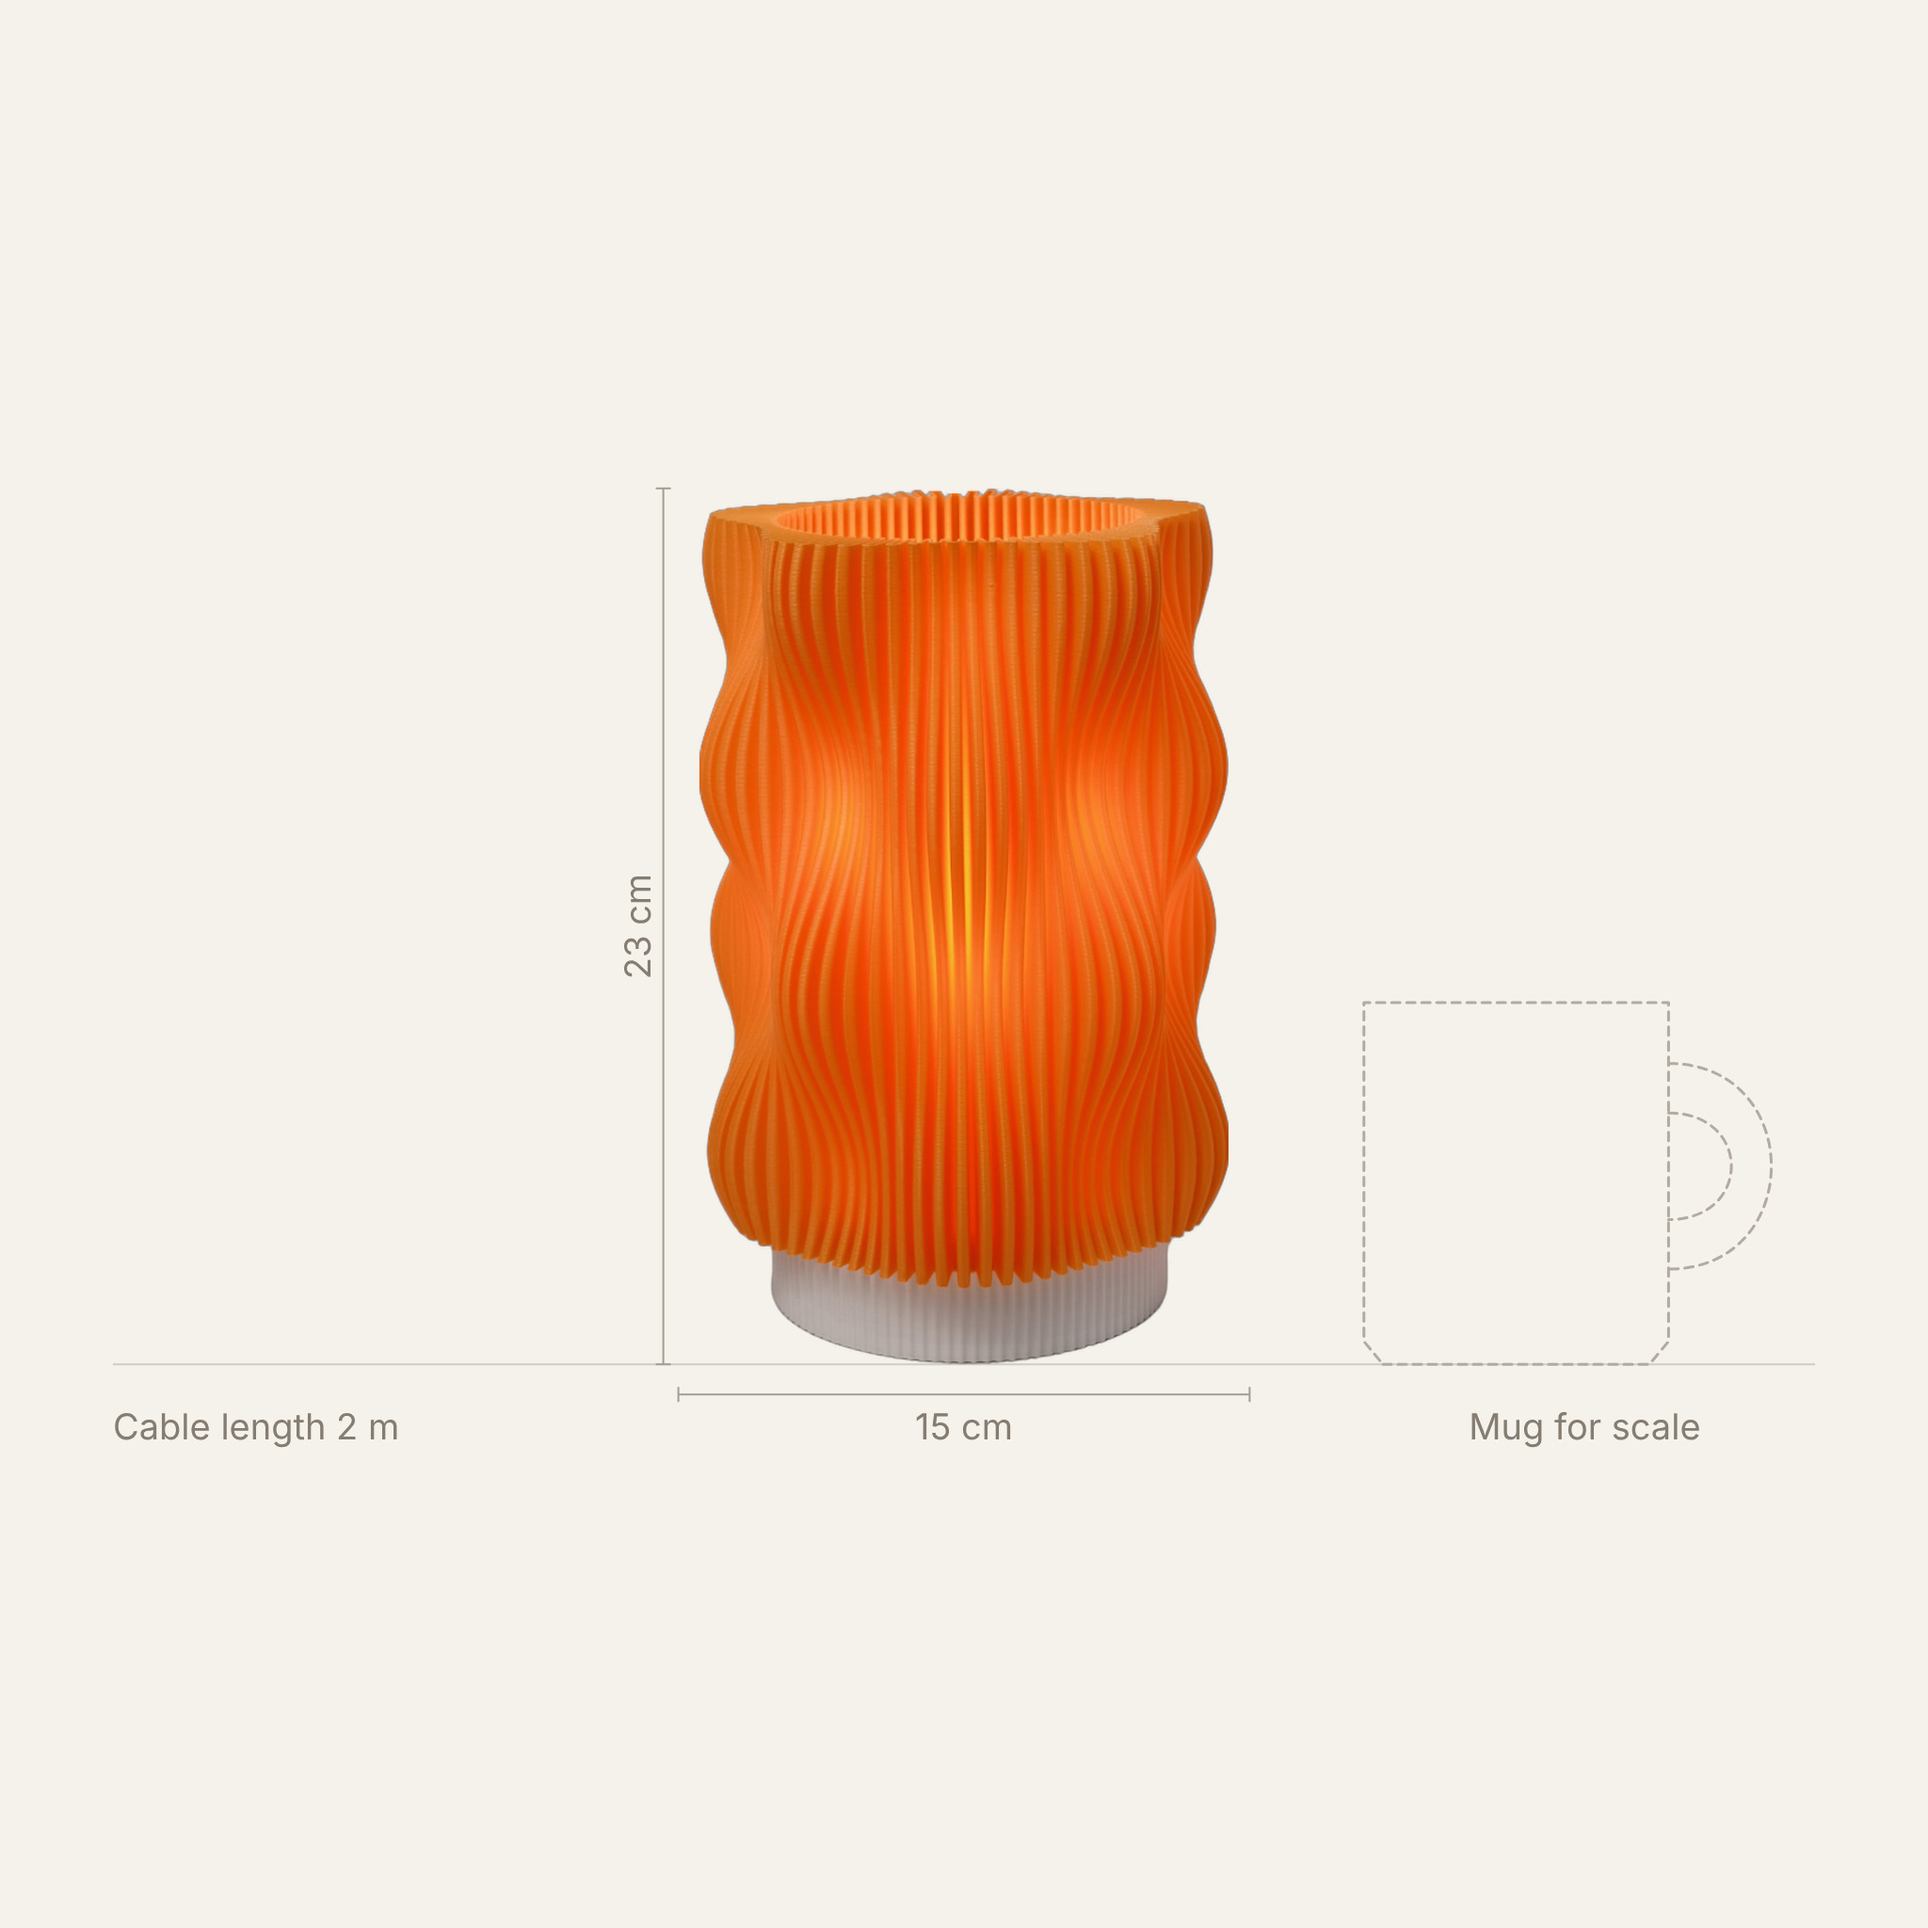
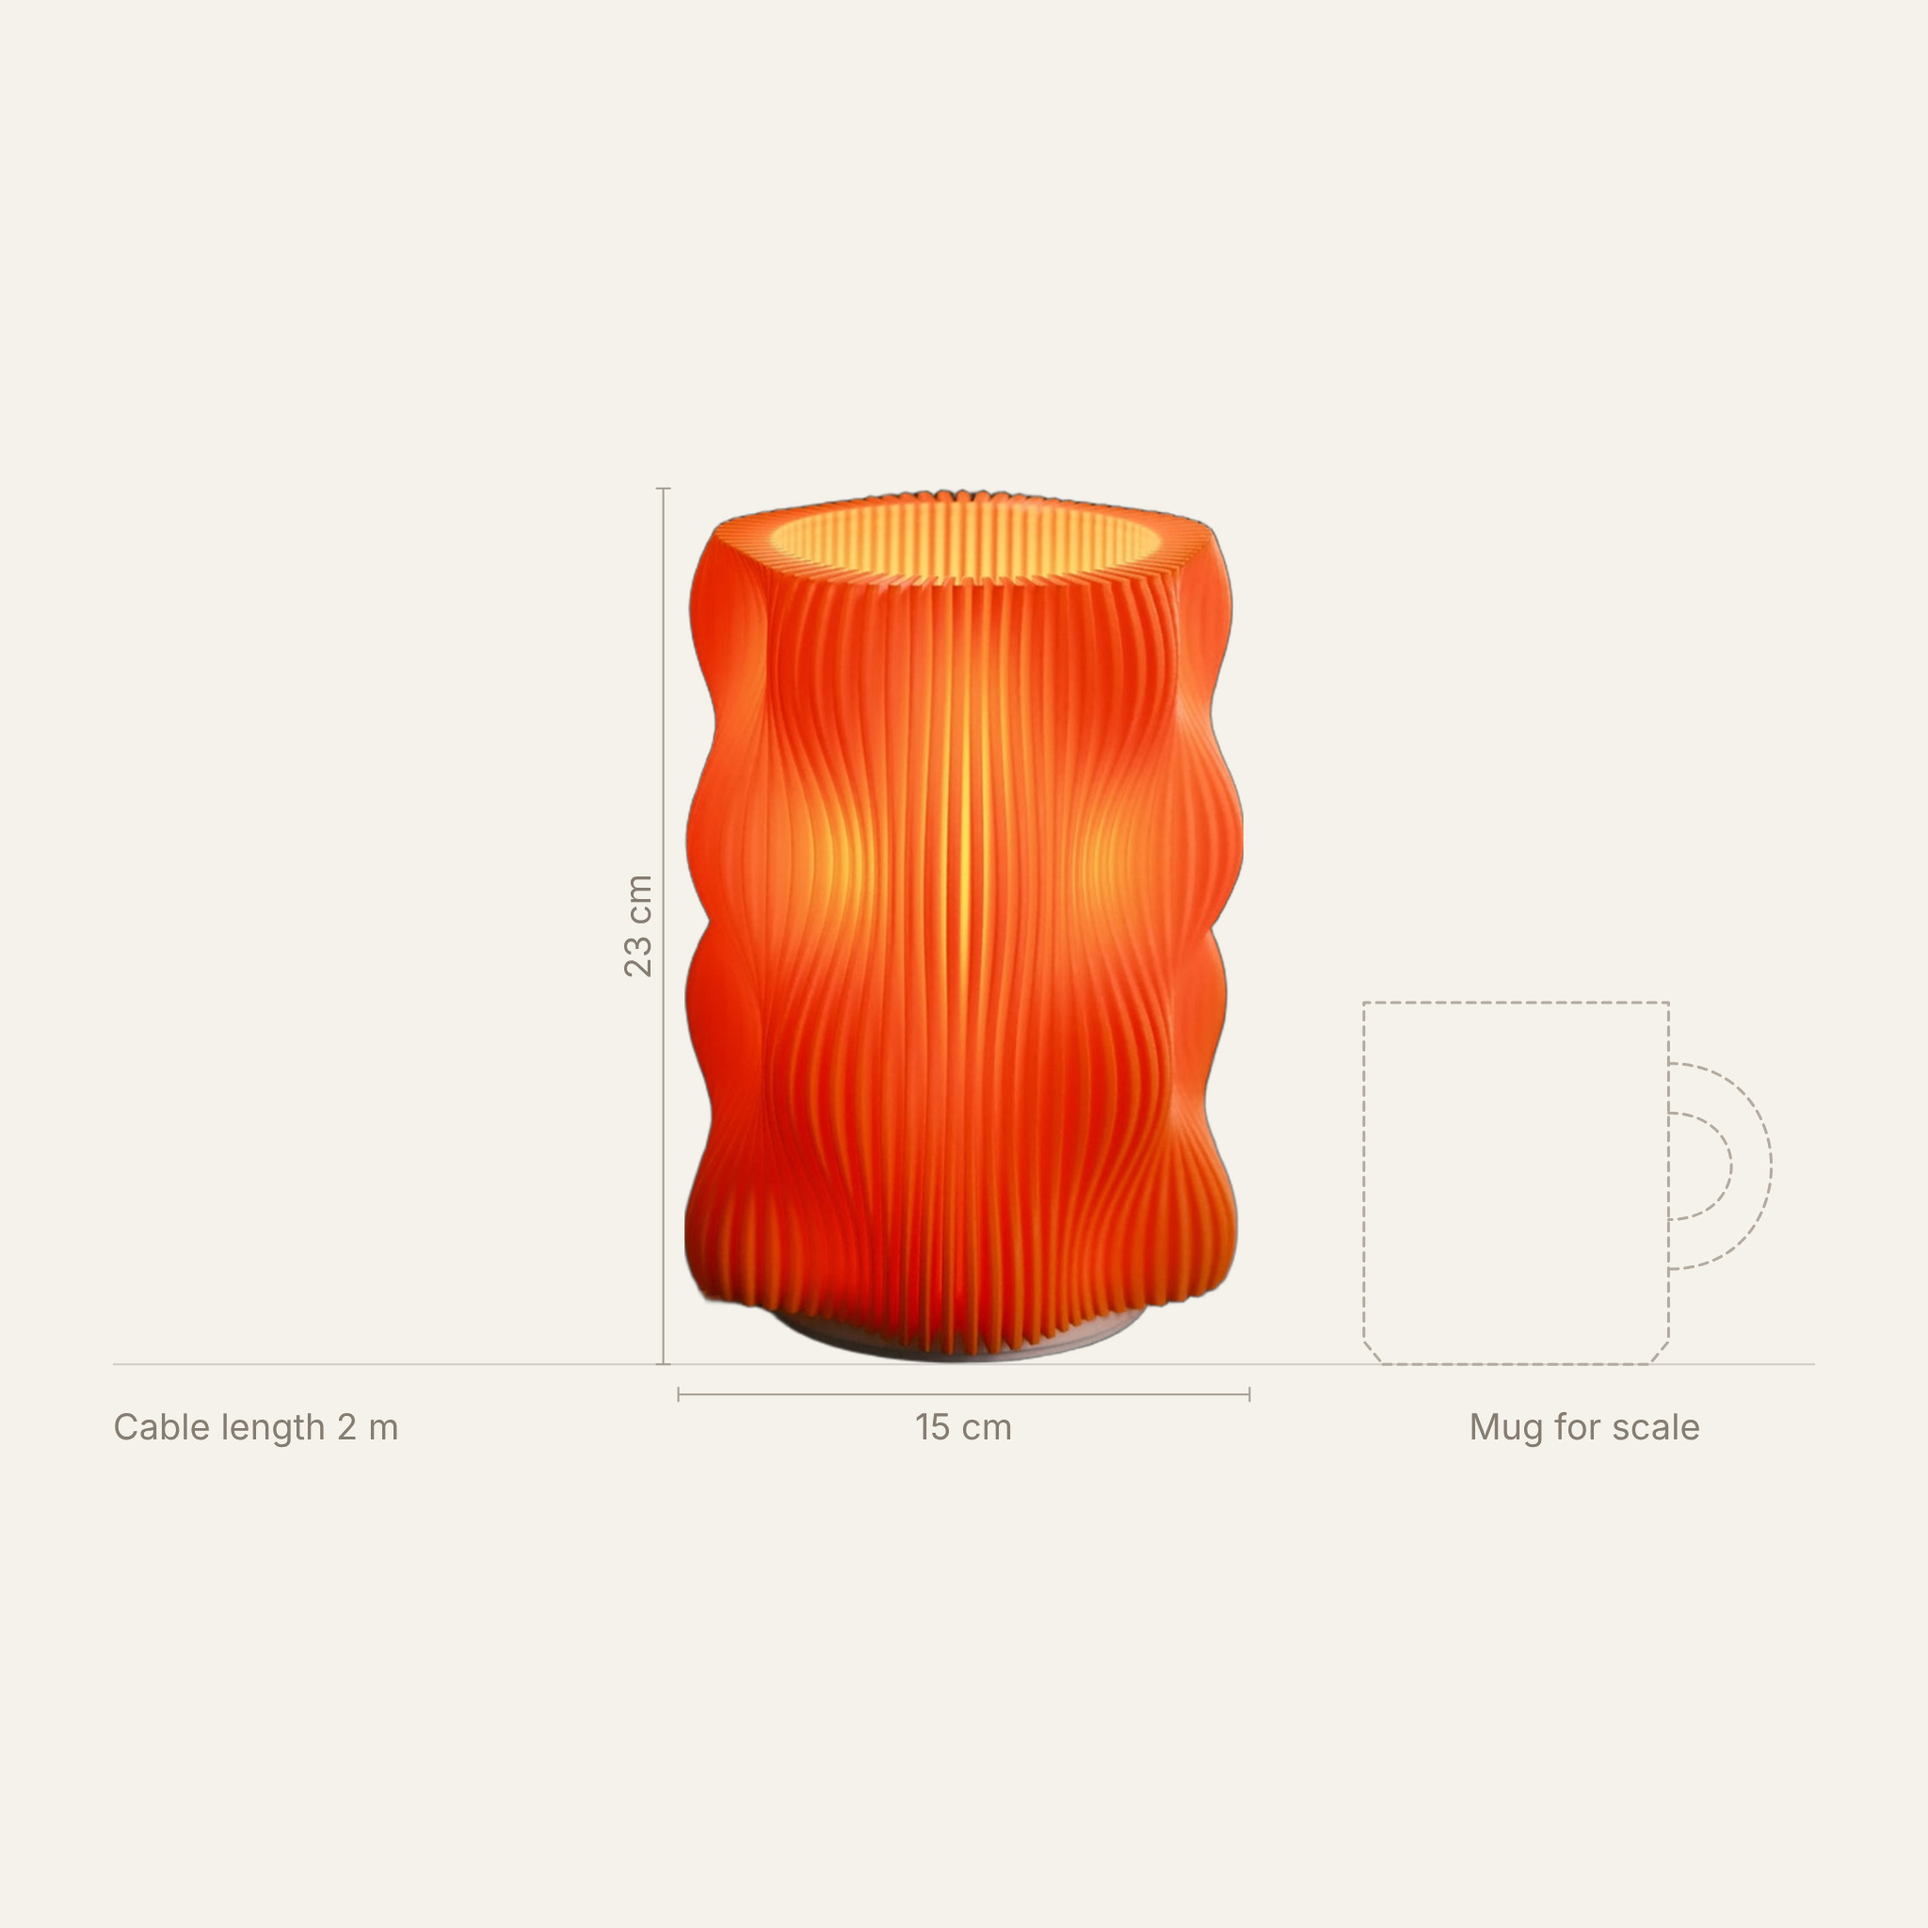
Use each product page's own photo for Matcha, Mandarin and Candy size images
Claude-Session: https://claude.ai/code/session_01DdiNAaQ1sSSiURw1iZ4bfB

Changed region(s): [[0.3438, 0.25, 0.6562, 0.7188]]

diff --git a/lamp-size-guide/make_size_guide.py b/lamp-size-guide/make_size_guide.py
@@ -7,7 +7,7 @@ INK = "#2B2825"; BG = "#F5F1EB"; DIM = "#A59D93"; SUB = "#857C72"; MUG = "#B3AAA
 RES = 4.2   # cm reserved left of each lamp for the height line
 GAP = 2.4   # cm between items
 
-DECABLE = {"mocha_10", "bubble_14", "bubble_19", "bubble_24", "palermo_07", "palermotall_08", "pleaty_00", "shortstack_10", "superpleaty_16", "superpleaty_28", "cloud_00", "matcha_09", "limtall_00", "limoncello_07", "mocha_00", "bubble_11", "minibubble_00"}
+DECABLE = {"own_natural", "own_mandarin", "own_candy", "own_matcha", "mocha_10", "bubble_14", "bubble_19", "bubble_24", "palermo_07", "palermotall_08", "pleaty_00", "shortstack_10", "superpleaty_16", "superpleaty_28", "cloud_00", "matcha_09", "limtall_00", "limoncello_07", "mocha_00", "bubble_11", "minibubble_00"}
 
 def decable(im, k=25):
     from scipy import ndimage

diff --git a/lamp-size-guide/make_product_images.py b/lamp-size-guide/make_product_images.py
@@ -1,10 +1,7 @@
 import compose, subprocess, os
 JOBS = [  # handle, photo, H, W
-    ("mocha-lamp", "mocha_00", 31.5, 16), ("mocha-lamp-natural", "mocha_10", 31.5, 16),
-    ("matcha-lamp", "matcha_09", 30, 15),
-    ("bubble-lamp-natural", "bubble_19", 23, 15), ("bubble-lamp-mandarin", "bubble_14", 23, 15),
-    ("bubble-lamp-lemon", "bubble_11", 23, 15), ("bubble-lamp-candy", "bubble_24", 23, 15),
-    ("cloud-lamp", "cloud_00", 21, 15),
+    ("matcha-lamp", "own_matcha", 30, 15),
+    ("bubble-lamp-mandarin", "own_mandarin", 23, 15), ("bubble-lamp-candy", "own_candy", 23, 15),
 ]
 names = []
 for h, p, H, W in JOBS:
